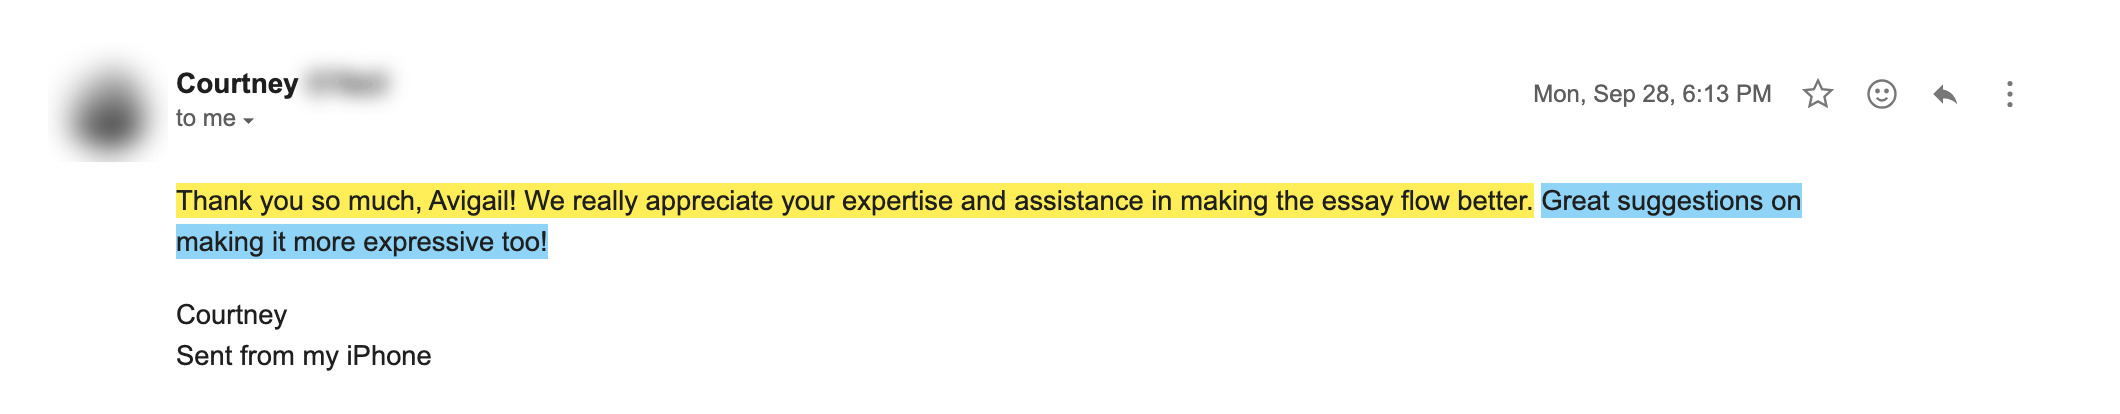
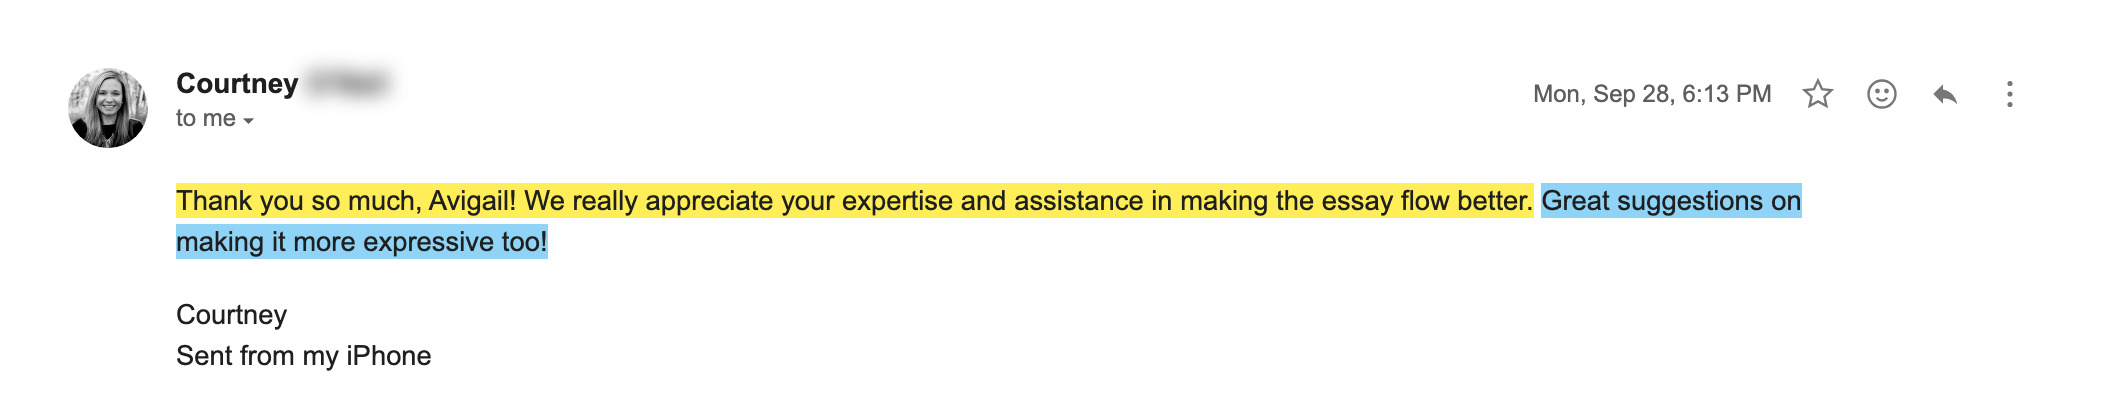
Add Jory's written-edit testimonial, re-export all four at full chroma
New edit-quote-04 (application submitted, NYU). Quotes 01-03 re-rendered
from source at quality=92 subsampling=0 so the thin Gmail text and the
highlight edges stay sharp; all four are 2120px wide so the block matches.

Changed region(s): [[0.0311, 0.1449, 0.0934, 0.4058]]

diff --git a/index.html b/index.html
@@ -711,6 +711,12 @@
           <div class="qc-shot"><img src="media/edits/edit-quote-03.jpg" alt="Student email after a written essay edit" loading="lazy" decoding="async"/></div>
           <blockquote class="qc-quote">&ldquo;Thank you so much! All the feedback was super helpful and I submitted it tonight.&rdquo;</blockquote>
         </figure>
+        <figure class="qcard">
+          <div class="qc-school">Written edits</div>
+          <div class="qc-note">Application submitted</div>
+          <div class="qc-shot"><img src="media/edits/edit-quote-04.jpg" alt="Student email after a written essay edit" loading="lazy" decoding="async"/></div>
+          <blockquote class="qc-quote">&ldquo;I was able to submit my application yesterday and it was way less stressful due to your help on my main essay.&rdquo;</blockquote>
+        </figure>
       </div>
     </div>
 
